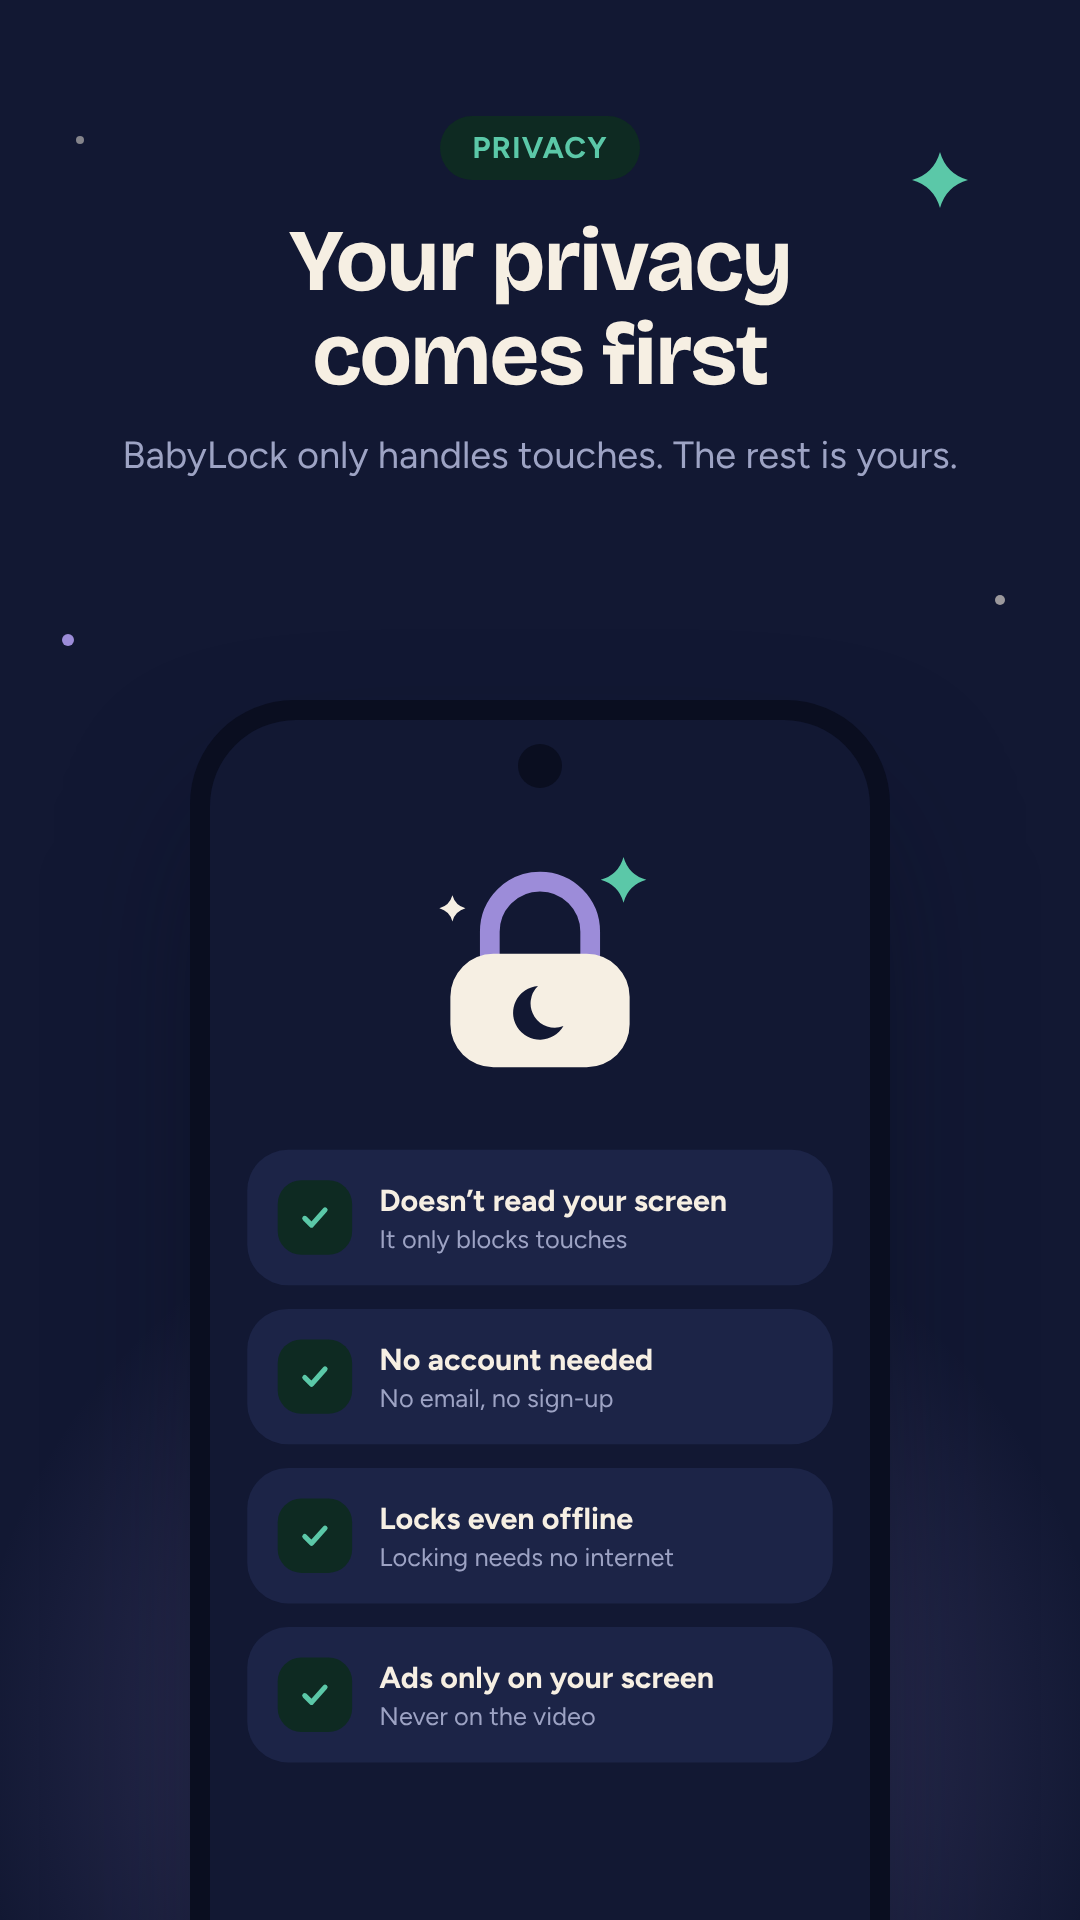
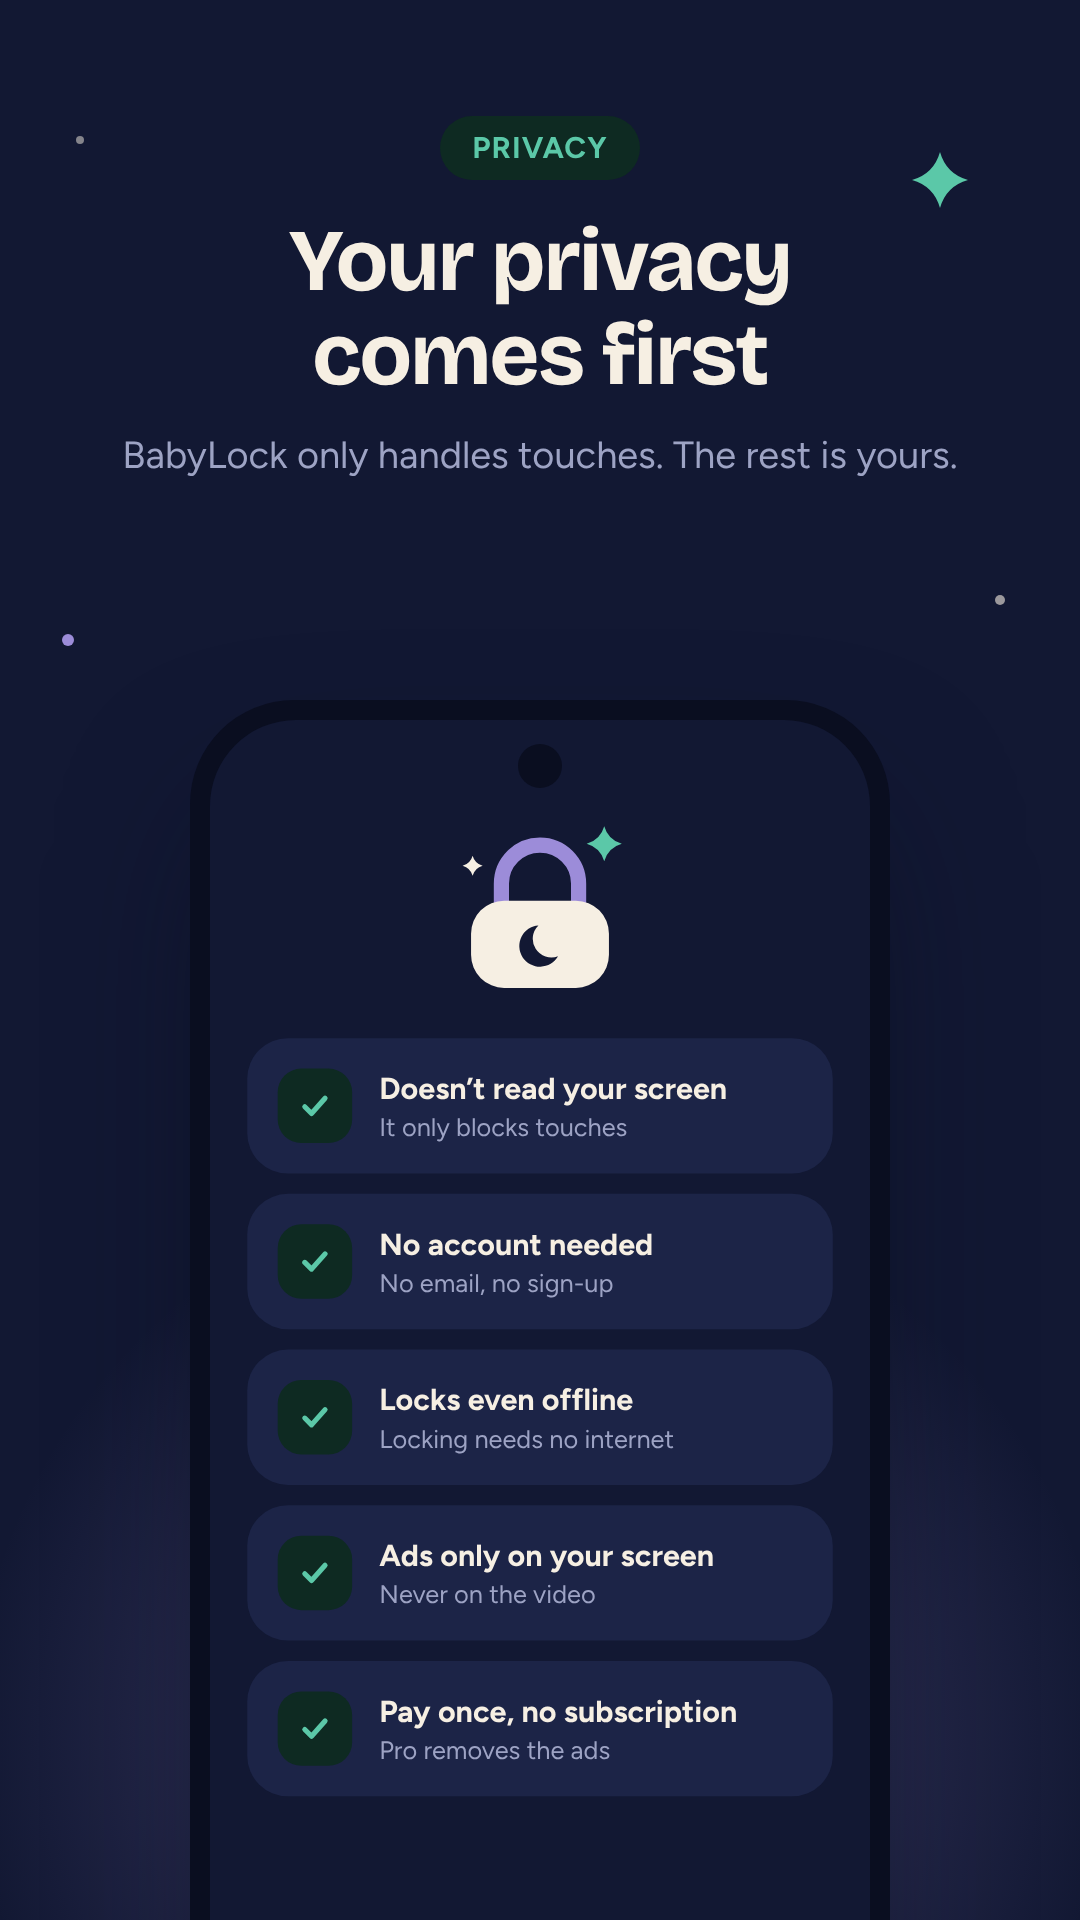
Tela 5 da loja: Pague uma vez, sem mensalidade (BabyLock Pro) (#9)
Claude-Session: https://claude.ai/code/session_012iJCVADVkMu64SSKh8z7RP

diff --git a/docs/marca/fonte/build.py b/docs/marca/fonte/build.py
@@ -33,7 +33,7 @@ T = {
   ],
   pill='Toques bloqueados',
   checks=[('Não lê sua tela', 'Só bloqueia os toques'), ('Não pede conta', 'Nem e-mail, nem cadastro'),
-          ('Trava mesmo sem internet', 'O bloqueio não precisa de rede'), ('Anúncio só na sua tela', 'Nunca aparece no vídeo')],
+          ('Trava mesmo sem internet', 'O bloqueio não precisa de rede'), ('Anúncio só na sua tela', 'Nunca aparece no vídeo'), ('Pague uma vez, sem mensalidade', 'O Pro tira os anúncios')],
   locking='TRAVANDO', open_video='Abra o vídeo agora', auto='A tela trava sozinha.<br>O vídeo continua tocando.', cancel='Cancelar',
   confirm='Confirme que é você', sensor='Toque no sensor de digital', pin='Usar PIN',
   home={},
@@ -49,7 +49,7 @@ T = {
   ],
   pill='Touches blocked',
   checks=[('Doesn’t read your screen', 'It only blocks touches'), ('No account needed', 'No email, no sign-up'),
-          ('Locks even offline', 'Locking needs no internet'), ('Ads only on your screen', 'Never on the video')],
+          ('Locks even offline', 'Locking needs no internet'), ('Ads only on your screen', 'Never on the video'), ('Pay once, no subscription', 'Pro removes the ads')],
   locking='LOCKING', open_video='Open the video now', auto='The screen locks by itself.<br>The video keeps playing.', cancel='Cancel',
   confirm='Confirm it’s you', sensor='Touch the fingerprint sensor', pin='Use PIN',
   home={'aria-label="Configurações"': 'aria-label="Settings"', 'Proteção completa': 'Full protection',
@@ -71,7 +71,7 @@ T = {
   ],
   pill='Toques bloqueados',
   checks=[('No lee tu pantalla', 'Solo bloquea los toques'), ('No pide cuenta', 'Ni correo, ni registro'),
-          ('Bloquea incluso sin internet', 'El bloqueo no necesita red'), ('Anuncios solo en tu pantalla', 'Nunca sobre el video')],
+          ('Bloquea incluso sin internet', 'El bloqueo no necesita red'), ('Anuncios solo en tu pantalla', 'Nunca sobre el video'), ('Paga una vez, sin mensualidad', 'Pro quita los anuncios')],
   locking='BLOQUEANDO', open_video='Abre el video ahora', auto='La pantalla se bloquea sola.<br>El video sigue.', cancel='Cancelar',
   confirm='Confirma que eres tú', sensor='Toca el sensor de huella', pin='Usar PIN',
   home={'aria-label="Configurações"': 'aria-label="Ajustes"', 'Proteção completa': 'Protección completa',
@@ -208,8 +208,8 @@ def check(title, sub):
 
 
 def s_priv(t):
-    return (f'<div class="b" style="width:390px;height:844px;background:#121833;color:#F6EFE3;padding:80px 22px 0;display:flex;flex-direction:column;gap:14px">'
-            f'<div style="align-self:center;margin-bottom:26px">{mark_svg(130)}</div>{"".join(check(*c) for c in t["checks"])}</div>')
+    return (f'<div class="b" style="width:390px;height:844px;background:#121833;color:#F6EFE3;padding:62px 22px 0;display:flex;flex-direction:column;gap:12px">'
+            f'<div style="align-self:center;margin-bottom:10px">{mark_svg(100)}</div>{"".join(check(*c) for c in t["checks"])}</div>')
 
 
 THEMES = {'night': ('#121833', '#F6EFE3', '#9DA3C4', '#5BC8A8', '#0E2A22'),
